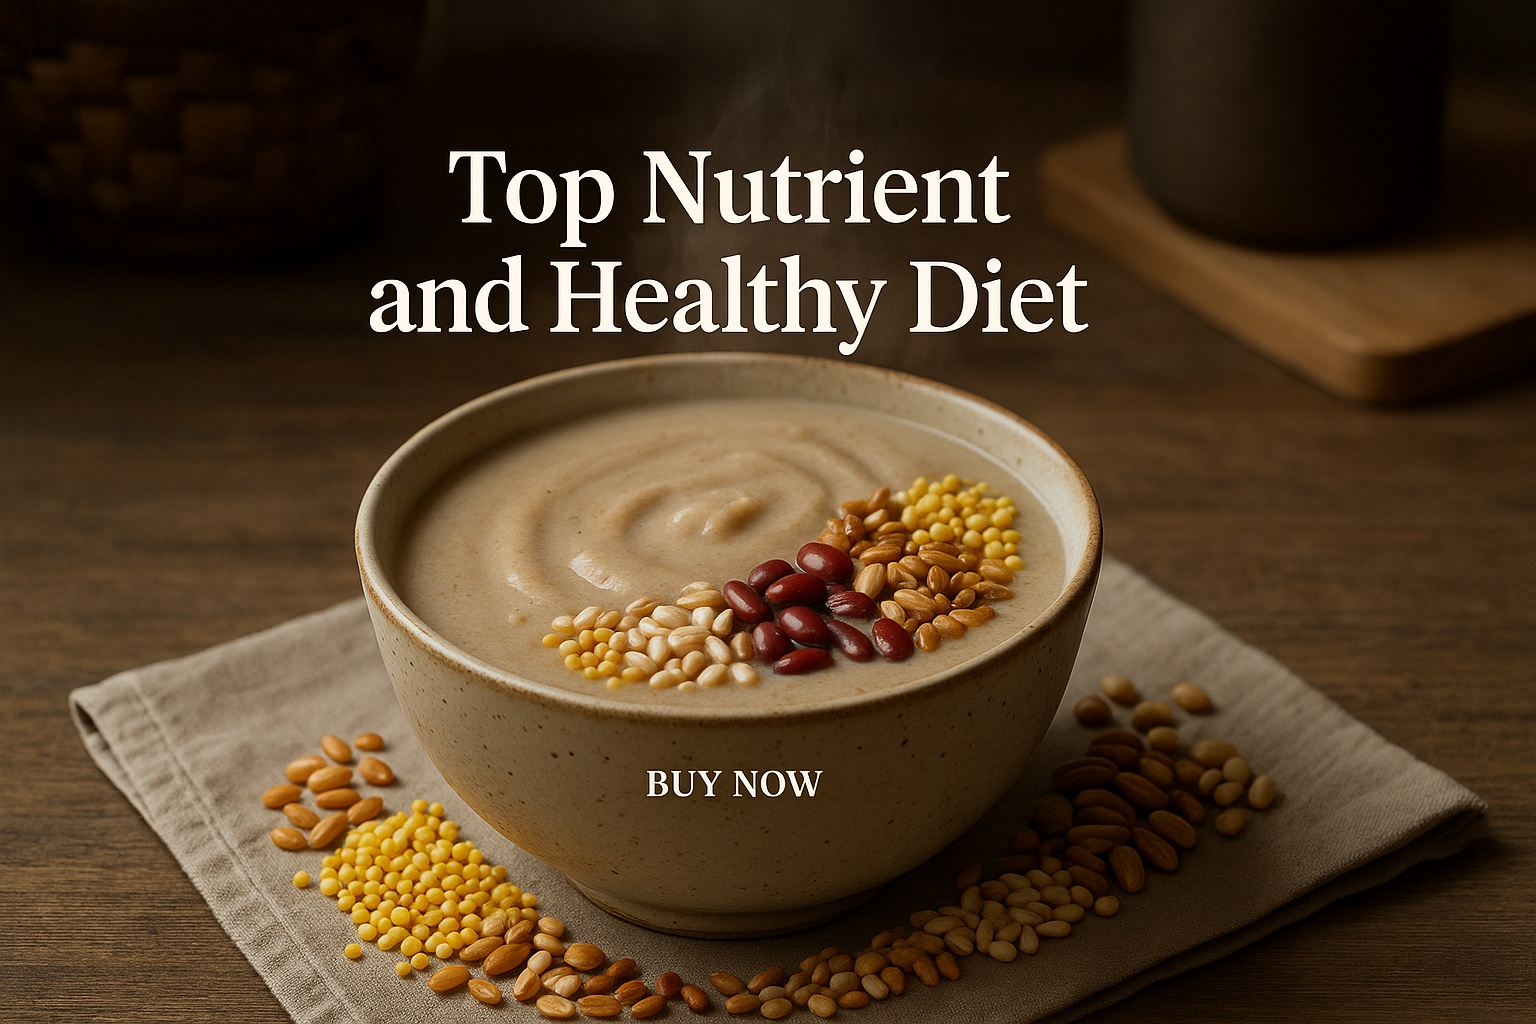
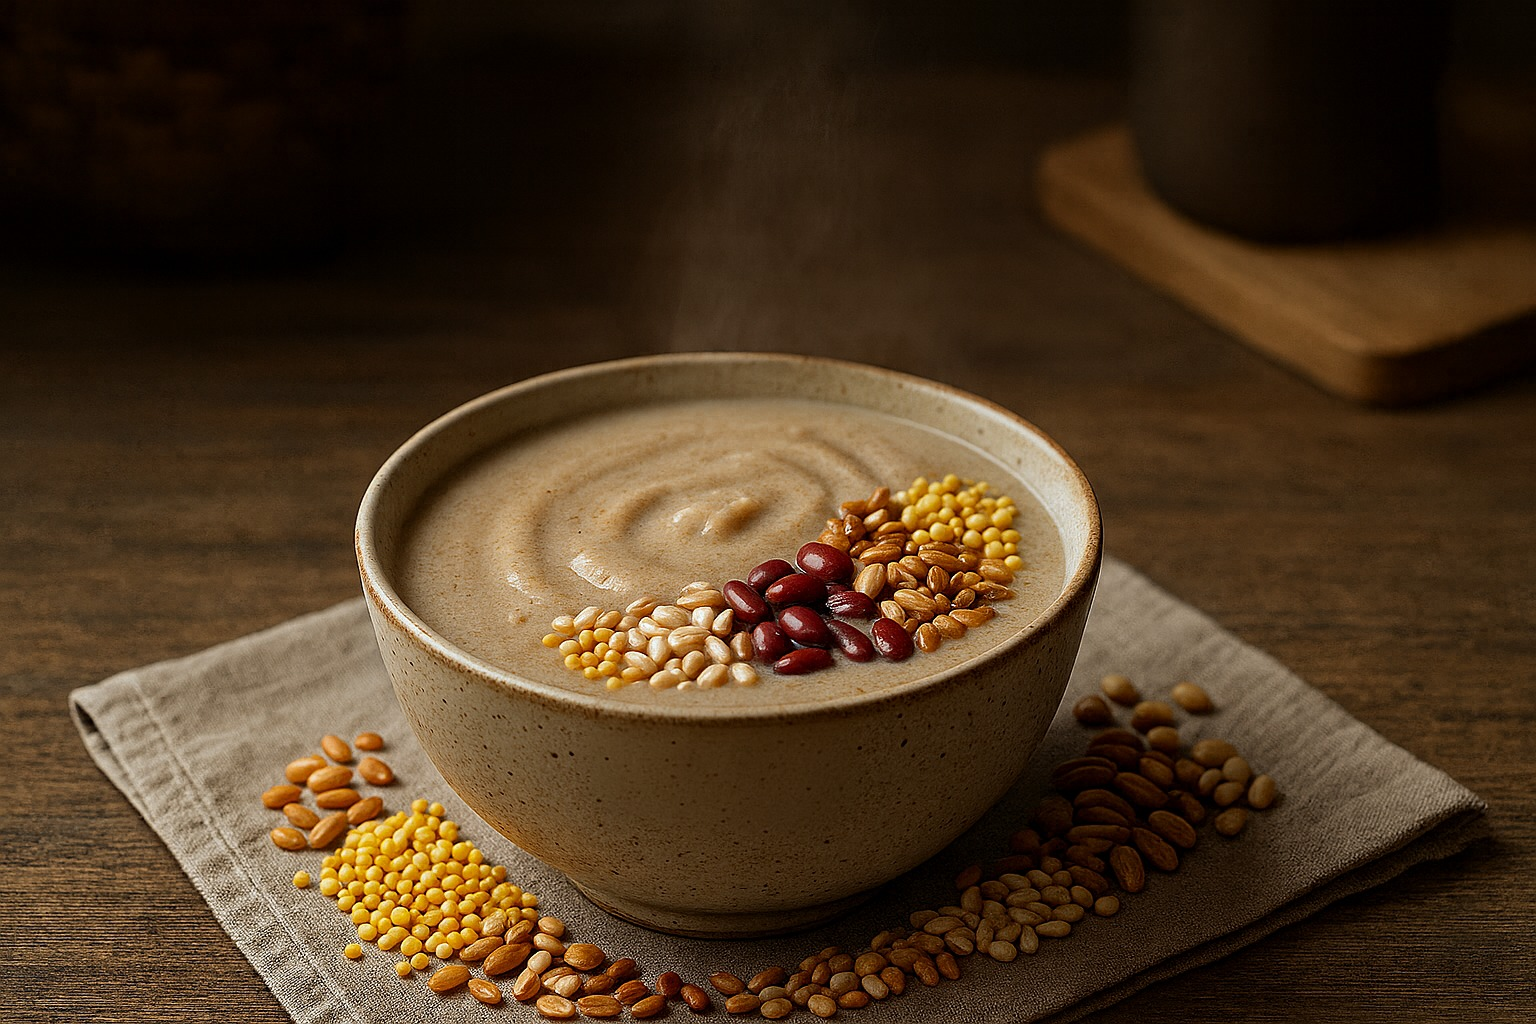
fixed the hero and floating cart

diff --git a/components/FloatingCartButton.tsx b/components/FloatingCartButton.tsx
@@ -1,26 +1,52 @@
 'use client'
+import { useEffect, useState } from 'react'
 import { ShoppingCart } from 'lucide-react'
 import { useCart } from '@/lib/cart'
 import { useUI } from '@/lib/ui'
 
 export default function FloatingCartButton() {
+  // total items in cart
   const count = useCart(s => s.items.reduce((n, i) => n + i.qty, 0))
-  const open = useUI(s => s.openCart)
+  const openCart = useUI(s => s.openCart)
+
+  // Optional: if your UI store exposes a flag, hide while cart is open
+  const isOpen = useUI(s => (s as any).cartOpen ?? false)
+
+  const [pop, setPop] = useState(false)
+  useEffect(() => {
+    if (count > 0) {
+      setPop(true)
+      const t = setTimeout(() => setPop(false), 200)
+      return () => clearTimeout(t)
+    }
+  }, [count])
 
   return (
     <button
-      onClick={open}
-      className="fixed bottom-5 right-5 z-50 rounded-full bg-neutral-900 p-4 text-white shadow-xl active:scale-[.98]"
+      onClick={openCart}
+      className={[
+        'fixed bottom-5 right-5 z-50 rounded-full bg-neutral-900 text-white px-5 py-3 shadow-xl hover:bg-neutral-800',
+        'active:scale-[.98] focus:outline-none focus-visible:ring-2 focus-visible:ring-offset-2 focus-visible:ring-neutral-400',
+        isOpen ? 'opacity-0 pointer-events-none translate-y-1' : 'opacity-100 translate-y-0',
+        'transition-all',
+      ].join(' ')}
       aria-label="Open cart"
     >
-      <div className="relative">
+      <span className="relative inline-flex items-center">
         <ShoppingCart className="h-5 w-5" />
-        {count > 0 && (
-          <span className="absolute -right-2 -top-2 rounded-full bg-brand px-2 py-[2px] text-[10px] font-semibold text-white">
-            {count}
-          </span>
-        )}
-      </div>
+        {/* Count badge — now bright for contrast */}
+        <span
+          className={[
+            'absolute -right-2 -top-2 h-5 min-w-[20px] px-1 rounded-full',
+            'bg-amber-400 text-black text-[11px] flex items-center justify-center',
+            pop ? 'scale-110' : 'scale-100',
+            'transition-transform motion-reduce:transition-none',
+          ].join(' ')}
+        >
+          {count}
+        </span>
+      </span>
+      <span className="ml-2 text-sm font-medium">Cart</span>
     </button>
   )
 }

diff --git a/app/page.tsx b/app/page.tsx
@@ -5,10 +5,11 @@ import Footer from '@/components/Footer'
 import CartModal from '@/components/CartModal'
 import ProductCard from '@/components/ProductCard'
 import SafeImage from '@/components/SafeImage'
+import FloatingCartButton from '@/components/FloatingCartButton'
 import { PRODUCTS as DEFAULTS } from '@/lib/products'
 import { SHOP_CONFIG } from '@/lib/shopConfig'
 import type { Product } from '@/lib/types'
-import { ShoppingCart } from 'lucide-react'
+import { v } from '@/lib/assets'
 
 export default function Page() {
   const [products, setProducts] = useState<Product[]>(DEFAULTS)
@@ -44,21 +45,31 @@ export default function Page() {
 
   const heroPrimary = (p?.images?.[0] && (/^https?:\/\//.test(p.images[0]) || p.images[0].startsWith('/'))) ? p.images[0] : undefined
 
+  // ensure hash #contact scrolls after navigation
+  useEffect(() => {
+    if (typeof window !== 'undefined' && window.location.hash === '#contact') {
+      const t = setTimeout(() => {
+        document.getElementById('contact')?.scrollIntoView({ behavior: 'smooth', block: 'start' })
+      }, 50)
+      return () => clearTimeout(t)
+    }
+  }, [])
+
   return (
     <main className="min-h-screen bg-surface scroll-smooth">
       <Header onOpenCart={() => setCartOpen(true)} />
 
-      {/* HERO — image + strong overlay + centered copy + bottom chips (inside hero) */}
+      {/* HERO */}
       <section className="relative">
         <div className="relative h-[74vh] min-h-[520px] md:h-[90vh] w-full overflow-hidden">
           <SafeImage
             alt="Tom Brown hero"
             className="absolute inset-0 h-full w-full object-cover z-0"
             srcs={[
-              '/images/hero.jpg',   // prefer your local hero
-              heroPrimary,          // then product-provided image (if valid)
-              '/images/hero.png',
-              '/images/hero.webp',
+              v('/images/hero.jpg'),   // ← prefer your local hero (cache-busted)
+              heroPrimary,             // then product-provided (if valid)
+              v('/images/hero.png'),
+              v('/images/hero.webp'),
               '/hero.jpg',
             ]}
           />
@@ -80,7 +91,7 @@ export default function Page() {
             </div>
           </div>
 
-          {/* Benefit chips inside hero (don’t push layout) */}
+          {/* chips inside hero */}
           <div className="pointer-events-none absolute inset-x-0 bottom-4 z-20">
             <div className="pointer-events-auto mx-auto flex max-w-6xl flex-col gap-3 px-4 sm:flex-row">
               <div className="flex-1 rounded-2xl bg-white/95 px-4 py-3 text-sm shadow-soft ring-1 ring-black/5">✅ Hygienic small-batch roasting</div>
@@ -96,7 +107,7 @@ export default function Page() {
         <div className="flex justify-center">{p && <ProductCard p={p} />}</div>
       </section>
 
-      {/* HOW TO PREPARE — thicker spacing + correct measurements */}
+      {/* HOW TO PREPARE */}
       <section className="mx-auto max-w-6xl px-4 pt-12 md:pt-16 pb-20 md:pb-28">
         <h3 className="text-xl font-semibold mb-4">How to prepare</h3>
         <div className="grid gap-4 md:grid-cols-3">
@@ -121,7 +132,7 @@ export default function Page() {
         </div>
       </section>
 
-      {/* CONTACT — thicker spacing + alert if not filled */}
+      {/* CONTACT */}
       <section id="contact" className="scroll-mt-28 mx-auto max-w-6xl px-4 pt-12 md:pt-16 pb-24 md:pb-32">
         <div className="grid gap-8 md:grid-cols-2">
           <div className="rounded-2xl bg-white p-6 shadow-soft ring-1 ring-black/5">
@@ -154,17 +165,10 @@ export default function Page() {
 
       <Footer />
 
-      {/* Floating cart button (bottom-right) */}
-      <button
-        onClick={() => setCartOpen(true)}
-        className="fixed bottom-4 right-4 z-[60] inline-flex items-center gap-2 rounded-full bg-black text-white px-5 py-3 shadow-lg hover:bg-neutral-800"
-        aria-label="Open cart"
-      >
-        <ShoppingCart className="h-5 w-5" />
-        <span>Cart</span>
-      </button>
+      {/* Floating cart with live count (opens right-slide cart) */}
+      <FloatingCartButton />
 
-      {/* Slide-in Cart modal (uses your existing component signature) */}
+      {/* Right-slide Cart modal */}
       <CartModal open={cartOpen} onClose={() => setCartOpen(false)} phone={cfg.phone} storeName={cfg.displayName} />
     </main>
   )

diff --git a/components/ProductCard.tsx b/components/ProductCard.tsx
@@ -3,10 +3,10 @@ import type { Product } from '@/lib/types'
 import { useCart } from '@/lib/cart'
 import { money } from '@/lib/currency'
 import SafeImage from '@/components/SafeImage'
+import { v } from '@/lib/assets'
 
-const CARD_INGREDIENTS = ['Red beans', 'Soya beans', 'Groundnut', 'Maize'] // short stack for the card
+const CARD_INGREDIENTS = ['Red beans', 'Soya beans', 'Groundnut', 'Maize']
 
-// prefer absolute/URL paths; undefined otherwise
 const asPath = (s?: string) =>
   s && (/^https?:\/\//.test(s) || s.startsWith('/')) ? s : undefined
 
@@ -21,17 +21,16 @@ export default function ProductCard({ p }: { p: Product }) {
 
   return (
     <article className="w-full max-w-2xl overflow-hidden rounded-3xl bg-white shadow-soft ring-1 ring-black/5">
-      {/* Media header — no distortion */}
       <div className="relative aspect-video sm:aspect-[4/3]">
         <SafeImage
           alt={p.title}
           className="absolute inset-0 h-full w-full object-cover"
           srcs={[
-            '/images/product.jpg',             // prefer your local product image
-            asPath(p?.images?.[0]),            // then product-provided (if valid)
-            '/images/product.png',
-            '/images/product.webp',
-            '/product.jpg',                    // last-chance fallback if you drop to root
+            v('/images/product.jpg'),   // ← prefer local, cache-busted
+            asPath(p?.images?.[0]),     // fallback to product-provided if valid
+            v('/images/product.png'),
+            v('/images/product.webp'),
+            '/product.jpg',             // last-chance
           ]}
         />
         <div className="absolute inset-0 bg-gradient-to-t from-black/70 via-black/35 to-transparent" />
@@ -43,7 +42,6 @@ export default function ProductCard({ p }: { p: Product }) {
         </div>
       </div>
 
-      {/* Body */}
       <div className="p-5">
         <p className="text-neutral-700">
           {p.description || 'Nutritious roasted cereal — smooth, rich, and satisfying.'}

diff --git a/lib/assets.ts b/lib/assets.ts
@@ -1,0 +1,4 @@
+// Simple cache-busting helper for local assets.
+// Bump NEXT_PUBLIC_ASSET_TAG (e.g. 1 → 2) when you replace images with the same filename.
+export const ASSET_TAG = process.env.NEXT_PUBLIC_ASSET_TAG || '1'
+export const v = (p: string) => `${p}?v=${ASSET_TAG}`

diff --git a/components/Header.tsx b/components/Header.tsx
@@ -29,7 +29,7 @@ export default function Header({ onOpenCart }: { onOpenCart?: () => void }) {
   return (
     <header className="sticky top-0 z-50 w-full bg-white/80 backdrop-blur supports-[backdrop-filter]:bg-white/60 border-b border-neutral-200">
       <div className="mx-auto max-w-6xl px-4 h-16 flex items-center justify-between">
-        <a href="/" className="font-semibold text-lg tracking-tight">ShopName</a>
+        <a href="/" className="font-semibold text-lg tracking-tight">Tom Brown</a>
 
         {/* Desktop nav */}
         <nav className="hidden sm:flex items-center gap-6">